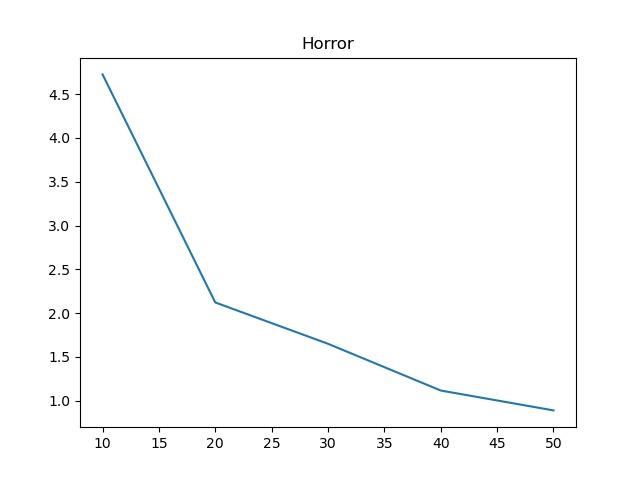
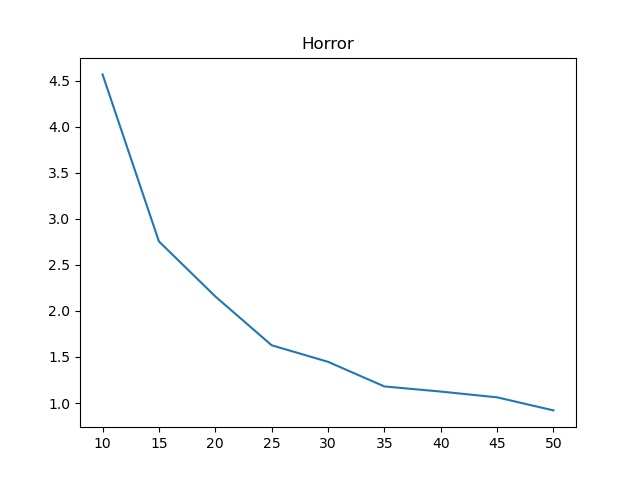
Add constants support
* Add plots into README

diff --git a/q3.py b/q3.py
@@ -5,8 +5,10 @@ from sys import argv
 from scipy.spatial import distance
 from pymongo import MongoClient
 
-client = MongoClient('mongodb://localhost:27017/')
-db = client.imdb
+from constants import CONNECTION_STRING, DATABASE_NAME, CLUSTER_COLLECTION_NAME, CENTROIDS_COLLECTION_NAME
+
+client = MongoClient(CONNECTION_STRING)
+db = client.get_database(DATABASE_NAME)
 
 
 def get_g() -> str:
@@ -19,7 +21,7 @@ def get_g() -> str:
 
 
 def get_docs(g: str) -> list:
-    movies_cursor = db.get_collection('moviesToCluster').find({
+    movies_cursor = db.get_collection(CLUSTER_COLLECTION_NAME).find({
         'genres': {
             '$eq': g
         } 
@@ -32,7 +34,7 @@ def get_docs(g: str) -> list:
 
 
 def get_centroids() -> list:
-    centroids_cursor = db.get_collection('centroids').find({})
+    centroids_cursor = db.get_collection(CENTROIDS_COLLECTION_NAME).find({})
     return list(doc['point'] for doc in centroids_cursor)
 
 
@@ -52,7 +54,7 @@ def assign_cluster_centers(docs: list) -> list:
 
 
 def update_cluster_centers(docs: list) -> (int, int):
-    bulk = db.get_collection('moviesToCluster').initialize_unordered_bulk_op(True)
+    bulk = db.get_collection(CLUSTER_COLLECTION_NAME).initialize_unordered_bulk_op(True)
     for doc in docs:
         bulk.find({
                 '_id': doc['_id']
@@ -66,7 +68,7 @@ def update_cluster_centers(docs: list) -> (int, int):
 
 
 def get_new_centroids(g: str) -> list:
-    points_grouped_by_centroid = list(db.get_collection('moviesToCluster').aggregate([
+    points_grouped_by_centroid = list(db.get_collection(CLUSTER_COLLECTION_NAME).aggregate([
         {
             '$match': {
                 'genres': g
@@ -124,7 +126,7 @@ def get_new_centroids(g: str) -> list:
 
     
 def update_new_centroids(new_centroids: list) -> ():
-    bulk = db.get_collection('centroids').initialize_unordered_bulk_op(True)
+    bulk = db.get_collection(CENTROIDS_COLLECTION_NAME).initialize_unordered_bulk_op(True)
     for centroid in new_centroids:
         bulk.find({
             '_id': centroid['_id']

diff --git a/q2.py b/q2.py
@@ -1,8 +1,10 @@
 from pymongo import MongoClient
 from sys import argv
 
-client = MongoClient('mongodb://localhost:27017/')
-db = client.imdb
+from constants import CONNECTION_STRING, DATABASE_NAME, CLUSTER_COLLECTION_NAME, CENTROIDS_COLLECTION_NAME
+
+client = MongoClient(CONNECTION_STRING)
+db = client.get_database(DATABASE_NAME)
 
 
 def get_k_g() -> (int, str):
@@ -23,7 +25,7 @@ def get_k_g() -> (int, str):
 def get_sample(k: int, g: str) -> list:
     result = []
     
-    data = db.get_collection('moviesToCluster').aggregate([
+    data = db.get_collection(CLUSTER_COLLECTION_NAME).aggregate([
         {
             '$match': {
                 'genres': g
@@ -53,8 +55,8 @@ def insert_centroids(points: list):
         doc['point'] = point
         docs.append(doc)
         _id += 1
-    db.drop_collection('centroids')
-    x = db.get_collection('centroids').insert_many(docs)
+    db.drop_collection(CENTROIDS_COLLECTION_NAME)
+    x = db.get_collection(CENTROIDS_COLLECTION_NAME).insert_many(docs)
     return x.acknowledged, len(x.inserted_ids)
 
 
@@ -63,5 +65,5 @@ if __name__ == "__main__":
     points = get_sample(k, g)
     isInserted, count = insert_centroids(points)
     if isInserted:
-        print(f"Inserted {count} docs into centroids collection.")
+        print(f"Inserted {count} docs into {CENTROIDS_COLLECTION_NAME} collection.")
     client.close()

diff --git a/q4.py b/q4.py
@@ -1,6 +1,7 @@
 from sys import argv
 from q2 import get_sample, insert_centroids, client as client1
 from q3 import get_docs, assign_cluster_centers, update_cluster_centers, get_new_centroids, update_new_centroids, client as client2
+from constants import GENRES, CENTROIDS_COLLECTION_NAME
 
 import matplotlib.pyplot as plot
 
@@ -57,9 +58,8 @@ def plot_graph(genre: str, k_SSE_dic: dict):
 
 
 if __name__ == "__main__":
-    genres = ['Action', 'Horror', 'Romance', 'Sci-Fi', 'Thriller']
     k_min, k_max, k_step, iter_limit = get_command_line_args()
-    for g in genres:
+    for g in GENRES:
         print(f'******** Calculating for {g} ***********')
         docs = get_docs(g)
         k_SSE_dic = {}
@@ -68,7 +68,7 @@ if __name__ == "__main__":
             isInserted, count = insert_centroids(points)
             clusters = []
             if isInserted:
-                    print(f"Inserted {count} random docs into centroids collection.")
+                    print(f"Inserted {count} random docs into {CENTROIDS_COLLECTION_NAME} collection.")
             for i in range(iter_limit):
                 print(f'********** genre = {g} k = {k} iteration = {i + 1} ************')
                 

diff --git a/constants.py b/constants.py
@@ -1,0 +1,8 @@
+# Common constants
+CONNECTION_STRING = 'mongodb://localhost:27017/'
+DATABASE_NAME = 'imdb'
+CLUSTER_COLLECTION_NAME = 'moviesToCluster'
+CENTROIDS_COLLECTION_NAME = 'centroids'
+
+# Q4
+GENRES = ['Action', 'Horror', 'Romance', 'Sci-Fi', 'Thriller']
